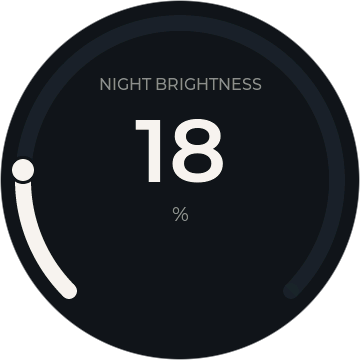
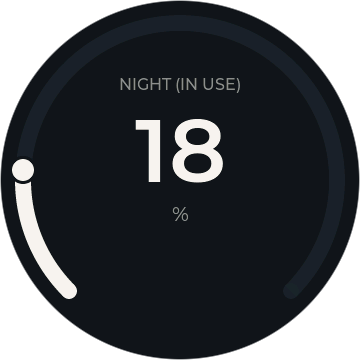
firmware(dial-idf): v1.4.1 — brightness rows disambiguated, clock 0 reads Off
A field report had someone dimming "Night" to 0 to kill the standby clock's
bedroom glow — the wrong row. "Night" read as the umbrella for everything
nocturnal, so it captured the tap meant for "Night clock".

- Brightness rows are now Day / Night (in use) / Night (clock): the shared
  prefix + qualifier makes the two night settings an explicit fork, and
  neither leg can be mistaken for the whole. Day stays unqualified on
  purpose — it governs every daytime tier, standby clock included.
- Picker captions echo the row names (NIGHT (IN USE) / NIGHT (CLOCK)), so a
  wrong tap still gets corrected at the point of adjustment.
- Night (clock) at 0 now reads "Off" — in the menu row and in the picker's
  unit slot (the 88px numeral font is digits-only, so the word rides the
  small label). 0 has been genuinely off since v1.3.0; now the UI says so.

Simulator: new brightness-clock-off scenario documents the Off state; the
scenario steps out to the menu first because ui_router_go no-ops on an
identical id+arg pair, and re-seeds the pref that stepping out commits.
The "done:" summary now counts snapshots instead of trusting a hardcoded
total that had already drifted.

Claude-Session: https://claude.ai/code/session_01KVLJZCxzRv1Y16dLZ6e7Co

Changed region(s): [[0.275, 0.2139, 0.7333, 0.275]]

diff --git a/simulator/main.c b/simulator/main.c
@@ -44,7 +44,7 @@
 // simulator reports as installed (stubs.c's esp_app_desc_t, which tracks
 // PROJECT_VER) — otherwise the screenshots show a dial offering to update
 // itself to something it already runs. Bump it with each release.
-#define SIM_OTA_LATEST "1.4.1"
+#define SIM_OTA_LATEST "1.4.2"
 
 /* ---- host framebuffer + LVGL display driver ----------------------------- */
 
@@ -133,6 +133,10 @@ static void ensure_dir(const char *path)
 // Converts the host RGB565 framebuffer to RGBA8888 and stamps a 180px-radius
 // anti-aliased circular alpha mask over it (the round panel), then writes it
 // as docs/screens/<name>.png.
+static int s_snapshots_written;   // counted for the "done:" summary — a
+                                  // hardcoded total drifted the first time a
+                                  // scenario was added
+
 static void snapshot(const char *name)
 {
     static uint8_t rgba[SCREEN_W * SCREEN_H * 4];
@@ -183,6 +187,7 @@ static void snapshot(const char *name)
         }
     }
     printf("wrote %-16s %s (%d distinct colors sampled)\n", name, path, n_seen);
+    s_snapshots_written++;
 }
 
 /* ---- scenario baseline --------------------------------------------------- */
@@ -560,8 +565,9 @@ static void scenario_adjust_mode(void)
 }
 
 // The Brightness submenu (M7, collapses Settings' old separate Day/Night
-// rows): shows both last-committed percents read straight off app_state_t,
-// same contract those two rows had before the collapse.
+// rows): shows the last-committed percents read straight off app_state_t
+// (and "Off" for a Night (clock) at 0), same contract the rows had before
+// the collapse.
 static void scenario_brightness_menu(void)
 {
     apply_baseline();
@@ -571,7 +577,7 @@ static void scenario_brightness_menu(void)
 }
 
 // The full-screen SCR_BRIGHTNESS picker (replaces the old inline settings-row
-// edit — see scr_brightness.c) opened on the Night row, then knob-adjusted
+// edit — see scr_brightness.c) opened on the Night (in use) row, then knob-adjusted
 // so the render shows a deliberately chosen value (and the drag handle parked
 // at it) rather than the untouched opening state — same idiom scenario_boost
 // uses for its own picker. Turned UP, not down: the picker opens on the stored
@@ -589,10 +595,10 @@ static void scenario_settings_brightness(void)
     snapshot("brightness");
 }
 
-// The same picker opened on the new Night clock row (packed arg 2) — mainly
-// to verify the shorter "NIGHT CLOCK" caption clears the arc's chord at the
-// same y-offset tuned for "NIGHT BRIGHTNESS" (see scr_brightness.c's create()
-// comment), and that the live preview visibly differs from the Night row
+// The same picker opened on the Night (clock) row (packed arg 2) — mainly
+// to verify the "NIGHT (CLOCK)" caption clears the arc's chord at the
+// same y-offset tuned for the old "NIGHT BRIGHTNESS" (see scr_brightness.c's
+// create() comment), and that the live preview visibly differs from the Night row
 // above (it previews the NIGHT table's STANDBY duty, deliberately very dim).
 // sim_knob(+3) drains as one on_knob(+3) batch: |batch|>=3 accelerates to
 // BRI_ACCEL_3_MULT (6%/detent), so the 20% default -> 20 + 3*6 = 38%.
@@ -604,6 +610,28 @@ static void scenario_settings_brightness_clock(void)
     sim_knob(3);   // 20% -> 38% (accelerated: 3 detents * 6%/detent)
     pump_ms(300);
     snapshot("brightness-clock");
+}
+
+// The clock picker driven to 0 — the one value on this row that is a state,
+// not a level: the standby clock goes genuinely dark
+// (dial_power_night_clock_duty(0) == 0), and the unit slot names it, "Off"
+// replacing "%" — the 88px numeral font is digits-only, so the word rides
+// the small label (scr_brightness.c's render_numeral).
+static void scenario_settings_brightness_clock_off(void)
+{
+    apply_baseline();
+    // The previous scenario ends with this same picker open on this same row,
+    // and ui_router_go no-ops on an identical id+arg pair (ui_router.c) — so
+    // step out to the menu first to force a real rebuild, then re-seed the
+    // pref that stepping out just committed (destroy() persisted its 38%).
+    ui_router_go(SCR_BRIGHTNESS_MENU, NULL, LV_SCR_LOAD_ANIM_NONE);
+    pump_ms(100);
+    sim_state_ptr()->bri_night_clock_pct = 20;
+    ui_router_go(SCR_BRIGHTNESS, (void *)(uintptr_t)2 /* night clock */, LV_SCR_LOAD_ANIM_NONE);
+    pump_ms(300);
+    sim_knob(-6);   // one -6 batch: 6%/detent -> -36, clamping at the 0 rail -> "Off"
+    pump_ms(300);
+    snapshot("brightness-clock-off");
 }
 
 static void scenario_wifi_info(void)
@@ -718,12 +746,13 @@ int main(void)
     scenario_brightness_menu();
     scenario_settings_brightness();
     scenario_settings_brightness_clock();
+    scenario_settings_brightness_clock_off();
     scenario_wifi_info();
     scenario_about();
     scenario_updating();
     scenario_standby();
     scenario_standby_update();
 
-    printf("done: 27 screens rendered to %s\n", DIAL_SIM_OUTPUT_DIR);
+    printf("done: %d screens rendered to %s\n", s_snapshots_written, DIAL_SIM_OUTPUT_DIR);
     return 0;
 }

diff --git a/firmware/dial-idf/components/dial_ui/scr_brightness_menu.c b/firmware/dial-idf/components/dial_ui/scr_brightness_menu.c
@@ -4,19 +4,31 @@
  * the two brightness rows that used to live directly in Settings into the
  * same submenu shape as the Update screen). A single scrollable list:
  *
- *   < Back        -> SCR_SETTINGS
- *   Day           value = the current day percent (st->bri_day_pct); tap
- *                 opens the full-screen SCR_BRIGHTNESS picker with packed
- *                 arg 0.
- *   Night         value = the current night percent (st->bri_night_pct);
- *                 tap opens SCR_BRIGHTNESS with packed arg 1. Governs the
- *                 backlight while the dial is actually in use at night
- *                 (ACTIVE/DIMMED tiers).
- *   Night clock   value = the current night-clock percent
- *                 (st->bri_night_clock_pct); tap opens SCR_BRIGHTNESS with
- *                 packed arg 2. Governs ONLY the standby/screensaver clock
- *                 face at night — the thing that actually glows in a dark
- *                 bedroom all night, independent of "Night" above.
+ *   < Back           -> SCR_SETTINGS
+ *   Day              value = the current day percent (st->bri_day_pct); tap
+ *                    opens the full-screen SCR_BRIGHTNESS picker with packed
+ *                    arg 0. Deliberately unqualified — Day governs EVERY
+ *                    daytime tier, the daytime standby clock included, so a
+ *                    "(in use)" suffix here would be a lie.
+ *   Night (in use)   value = the current night percent (st->bri_night_pct);
+ *                    tap opens SCR_BRIGHTNESS with packed arg 1. Governs the
+ *                    backlight while the dial is actually in use at night
+ *                    (ACTIVE/DIMMED tiers).
+ *   Night (clock)    value = the current night-clock percent
+ *                    (st->bri_night_clock_pct), shown as "Off" at 0 — for
+ *                    the clock 0 is genuinely off (dial_power_night_clock_
+ *                    duty), and naming that state is what tells someone
+ *                    hunting "turn the screensaver off" that it exists. Tap
+ *                    opens SCR_BRIGHTNESS with packed arg 2. Governs ONLY
+ *                    the standby/screensaver clock face at night — the thing
+ *                    that actually glows in a dark bedroom all night.
+ *
+ * The two night rows share the "Night (…)" prefix on purpose (owner,
+ * 2026-08-05, after a field report): a bare "Night" row read as the umbrella
+ * for everything nocturnal, so it captured the tap meant for the clock glow
+ * — a user dialed "Night" to 0 and the clock kept shining. The shared prefix
+ * plus qualifier makes the pair read as an explicit fork, and neither leg
+ * can be mistaken for the whole.
  *
  * The picker (scr_brightness.c) owns the live preview and the actual
  * commit, same as when the first two rows lived in Settings directly — this
@@ -138,9 +150,9 @@ static void create(lv_obj_t *scr, void *arg)
     s_list = dial_list_create(scr, ROW_H);
 
     make_row(s_list, LV_SYMBOL_LEFT "  Back", row_back_cb, NULL);
-    make_row(s_list, "Day",         row_day_cb,         &s_val_day);
-    make_row(s_list, "Night",       row_night_cb,       &s_val_night);
-    make_row(s_list, "Night clock", row_night_clock_cb, &s_val_night_clock);
+    make_row(s_list, "Day",            row_day_cb,         &s_val_day);
+    make_row(s_list, "Night (in use)", row_night_cb,       &s_val_night);
+    make_row(s_list, "Night (clock)",  row_night_clock_cb, &s_val_night_clock);
 
     // Created AFTER the list so it draws over rows scrolling beneath it —
     // same fixed title slot the other menu sub-screens use.
@@ -176,8 +188,15 @@ static void on_state(const app_state_t *st)
     lv_label_set_text(s_val_day, buf);
     snprintf(buf, sizeof buf, "%u%%", (unsigned)st->bri_night_pct);
     lv_label_set_text(s_val_night, buf);
-    snprintf(buf, sizeof buf, "%u%%", (unsigned)st->bri_night_clock_pct);
-    lv_label_set_text(s_val_night_clock, buf);
+    // The clock's 0 IS off (see the header comment) — say so, don't make the
+    // user infer it from a percent. Only this row: Day/Night at 0 are
+    // dimmest-legible, not off (scr_brightness.c's BRI_MIN_PCT comment).
+    if (st->bri_night_clock_pct == 0) {
+        lv_label_set_text(s_val_night_clock, "Off");
+    } else {
+        snprintf(buf, sizeof buf, "%u%%", (unsigned)st->bri_night_clock_pct);
+        lv_label_set_text(s_val_night_clock, buf);
+    }
 }
 
 // The knob walks the focused row (one per detent, dial_list's rotor snap) —

diff --git a/firmware/dial-idf/components/dial_ui/scr_brightness.c b/firmware/dial-idf/components/dial_ui/scr_brightness.c
@@ -7,9 +7,11 @@
  * with a big number (the temperature dial, scr_boost's duration picker), so
  * brightness now matches that vocabulary: same caption styling, same big
  * numeral font, same display-only rim arc, same detent/zoom-bump/range-stop
- * feel. `arg` packs which row opened it: 0 = day, 1 = night, 2 = night
- * clock (the standby/screensaver face at night — see dial_state.h's
- * bri_night_clock_pct comment).
+ * feel. `arg` packs which row opened it: 0 = day, 1 = night in-use, 2 =
+ * night clock (the standby/screensaver face at night — see dial_state.h's
+ * bri_night_clock_pct comment). Captions echo the menu rows' "(IN USE)/
+ * (CLOCK)" naming — the disambiguation has to hold at the point of
+ * adjustment too, or a wrong tap on the menu goes uncorrected here.
  *
  * The night-clock row previews and commits the NIGHT table's STANDBY duty
  * (dial_power's DPWR_STANDBY), not ACTIVE like the other two rows — see
@@ -181,6 +183,11 @@ static void render_numeral(int pct)
     char t[8];
     snprintf(t, sizeof(t), "%d", pct);
     lv_label_set_text(s_num_lbl, t);
+    // The clock row's 0 is genuinely off, and the numeral font is digits-only
+    // (dial_font_num_88.c's --range), so the off state is named in the unit
+    // slot instead: "%" becomes "Off" under the big 0. Never on Day/Night —
+    // their 0 is dimmest-legible, not off (see BRI_MIN_PCT's comment).
+    lv_label_set_text(s_unit_lbl, (s_clock && pct == 0) ? "Off" : "%");
 }
 
 /* ---- palette -------------------------------------------------------------*/
@@ -341,17 +348,16 @@ static void create(lv_obj_t *scr, void *arg)
     // Caption.
     s_title_lbl = lv_label_create(scr);
     lv_obj_set_style_text_font(s_title_lbl, &lv_font_montserrat_16, 0);
-    lv_label_set_text(s_title_lbl, s_clock ? "NIGHT CLOCK"
-                                  : s_night ? "NIGHT BRIGHTNESS"
+    lv_label_set_text(s_title_lbl, s_clock ? "NIGHT (CLOCK)"
+                                  : s_night ? "NIGHT (IN USE)"
                                             : "DAY BRIGHTNESS");
-    // 84, not scr_boost's 64: this caption is nearly twice as wide as
-    // "BOOST HEAT", and the arc's inner edge (r=149) leaves only ~159px of
-    // chord at y=54 (a 16px-font line's top edge there) — "NIGHT BRIGHTNESS"
-    // measures ~155px, so its corners nearly touched the stroke. 20px lower
-    // the chord opens to ~209px, restoring a comfortable margin on both
-    // sides without crowding the numeral below. "NIGHT CLOCK" is shorter
-    // still (~115px), so the same offset clears the stroke with room to
-    // spare — no per-row offset needed.
+    // 84, not scr_boost's 64: tuned when the widest caption here was
+    // "NIGHT BRIGHTNESS" (~155px at this font), whose corners nearly touched
+    // the arc's inner edge (r=149) at y=54, where the chord is only ~159px;
+    // 20px lower it opens to ~209px. The night captions have since shortened
+    // to the "(IN USE)/(CLOCK)" forms, leaving "DAY BRIGHTNESS" (~140px) the
+    // widest, but the offset stays — it still clears with margin, and one
+    // shared offset beats a per-row one.
     lv_obj_align(s_title_lbl, LV_ALIGN_CENTER, 0, 84 - CY);
 
     // Percent numeral — fixed anchor box, same slot as scr_boost's duration.
@@ -367,13 +373,14 @@ static void create(lv_obj_t *scr, void *arg)
     lv_obj_set_style_transform_pivot_x(s_num_lbl, LV_PCT(50), 0);
     lv_obj_set_style_transform_pivot_y(s_num_lbl, LV_PCT(50), 0);
     lv_obj_center(s_num_lbl);
-    render_numeral(s_pct);
 
-    // Unit, below the numeral.
+    // Unit, below the numeral. Created BEFORE the first render_numeral call,
+    // which owns this label's text ("%" normally, "Off" at the clock row's
+    // genuinely-off 0 — see its comment).
     s_unit_lbl = lv_label_create(scr);
     lv_obj_set_style_text_font(s_unit_lbl, &lv_font_montserrat_20, 0);
-    lv_label_set_text(s_unit_lbl, "%");
     lv_obj_align(s_unit_lbl, LV_ALIGN_CENTER, 0, 214 - CY);
+    render_numeral(s_pct);
 
     apply_palette();
 

diff --git a/simulator/stubs.c b/simulator/stubs.c
@@ -116,6 +116,6 @@ void dial_net_on_event(dial_net_event_cb_t cb) { (void)cb; }
 
 const esp_app_desc_t *esp_app_get_description(void)
 {
-    static const esp_app_desc_t desc = { .version = "1.4.0", .idf_ver = "v6.0" };
+    static const esp_app_desc_t desc = { .version = "1.4.1", .idf_ver = "v6.0" };
     return &desc;
 }

diff --git a/firmware/dial-idf/README.md b/firmware/dial-idf/README.md
@@ -172,8 +172,10 @@ itself:
   menu sub-screen (or tap its "Back" row) returns to the menu.
 - **Menu → Settings:** adjustment mode (Schedule/Hold — the default for what a
   dial-side change does), **Brightness** (its own sub-screen: separate Day,
-  Night, and Night clock levels, each a full-screen 0–100% picker you can drag
-  or turn), screen timeout (5s/15s/30s/1m before the standby clock takes over),
+  Night (in use), and Night (clock) levels, each a full-screen 0–100% picker
+  you can drag or turn — Night (clock) at 0 reads "Off", and off means off:
+  the standby clock goes fully dark, and a touch or a knob turn still wakes
+  the dial), screen timeout (5s/15s/30s/1m before the standby clock takes over),
   temperature scale (Absolute °F/°C, or Orion's −10…+10 relative levels), units
   (°C/°F, used for the absolute readouts), haptics (Off / Low / High / Auto —
   Auto is High by day and Low at night), screen rotation, Away mode, and two

diff --git a/CHANGELOG.md b/CHANGELOG.md
@@ -12,6 +12,20 @@ section in the same commit that bumps `PROJECT_VER`.
 Releases marked **(beta)** were prereleases, visible only to dials with
 "Beta builds" turned on.
 
+## 1.4.1 — 2026-08-05
+
+### Changed
+
+- **The Brightness rows are now Day, Night (in use), and Night (clock)** —
+  after a report of someone dimming "Night" to 0 and wondering why the clock
+  kept glowing. The two night settings were too easy to mistake for each
+  other: Night (in use) is the dial while you're actually using it at night;
+  Night (clock) is the clock face that glows while you sleep. The pickers'
+  captions now say the same thing, so a wrong tap corrects itself.
+- **Night (clock) at zero now reads "Off"** — in the Brightness menu and in
+  the picker — because that's what it is: the standby clock goes fully dark,
+  and a touch or a turn of the knob still wakes the dial.
+
 ## 1.4.0 — 2026-08-04
 
 ### Added
